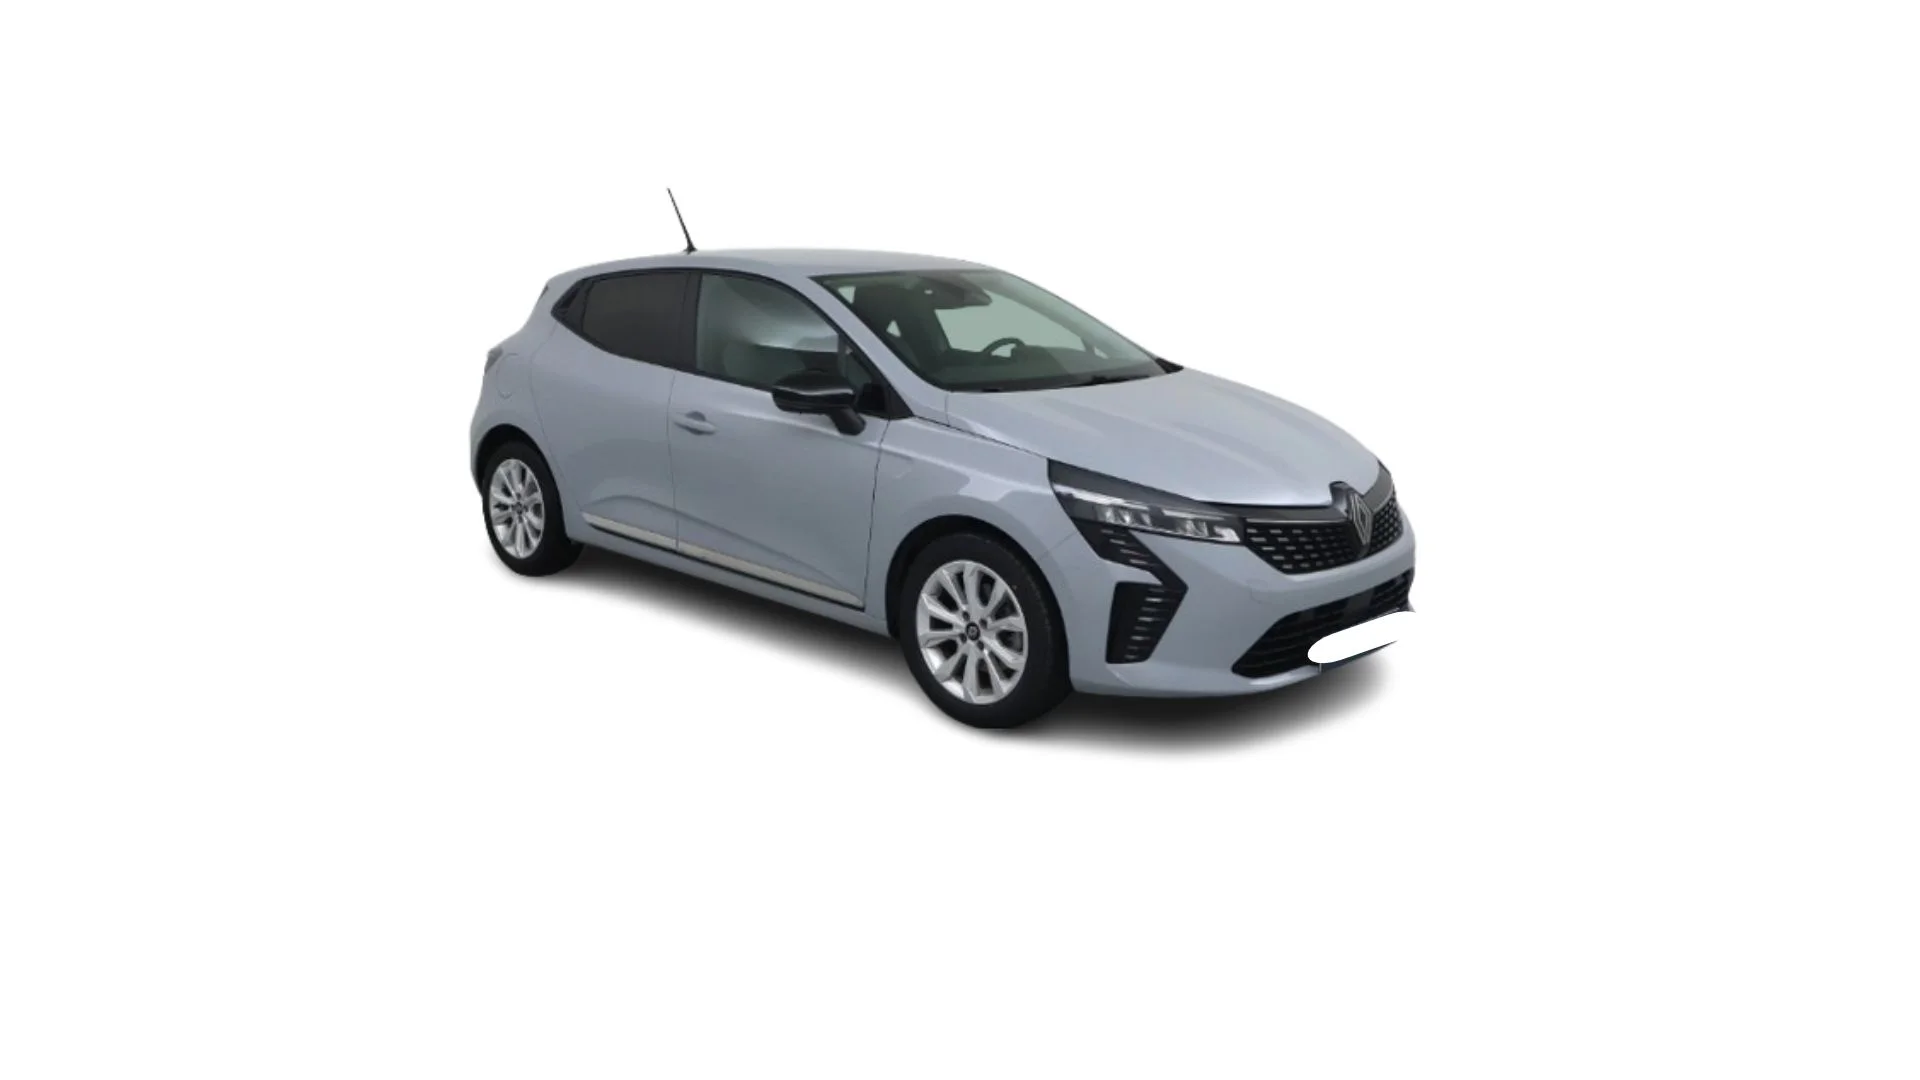
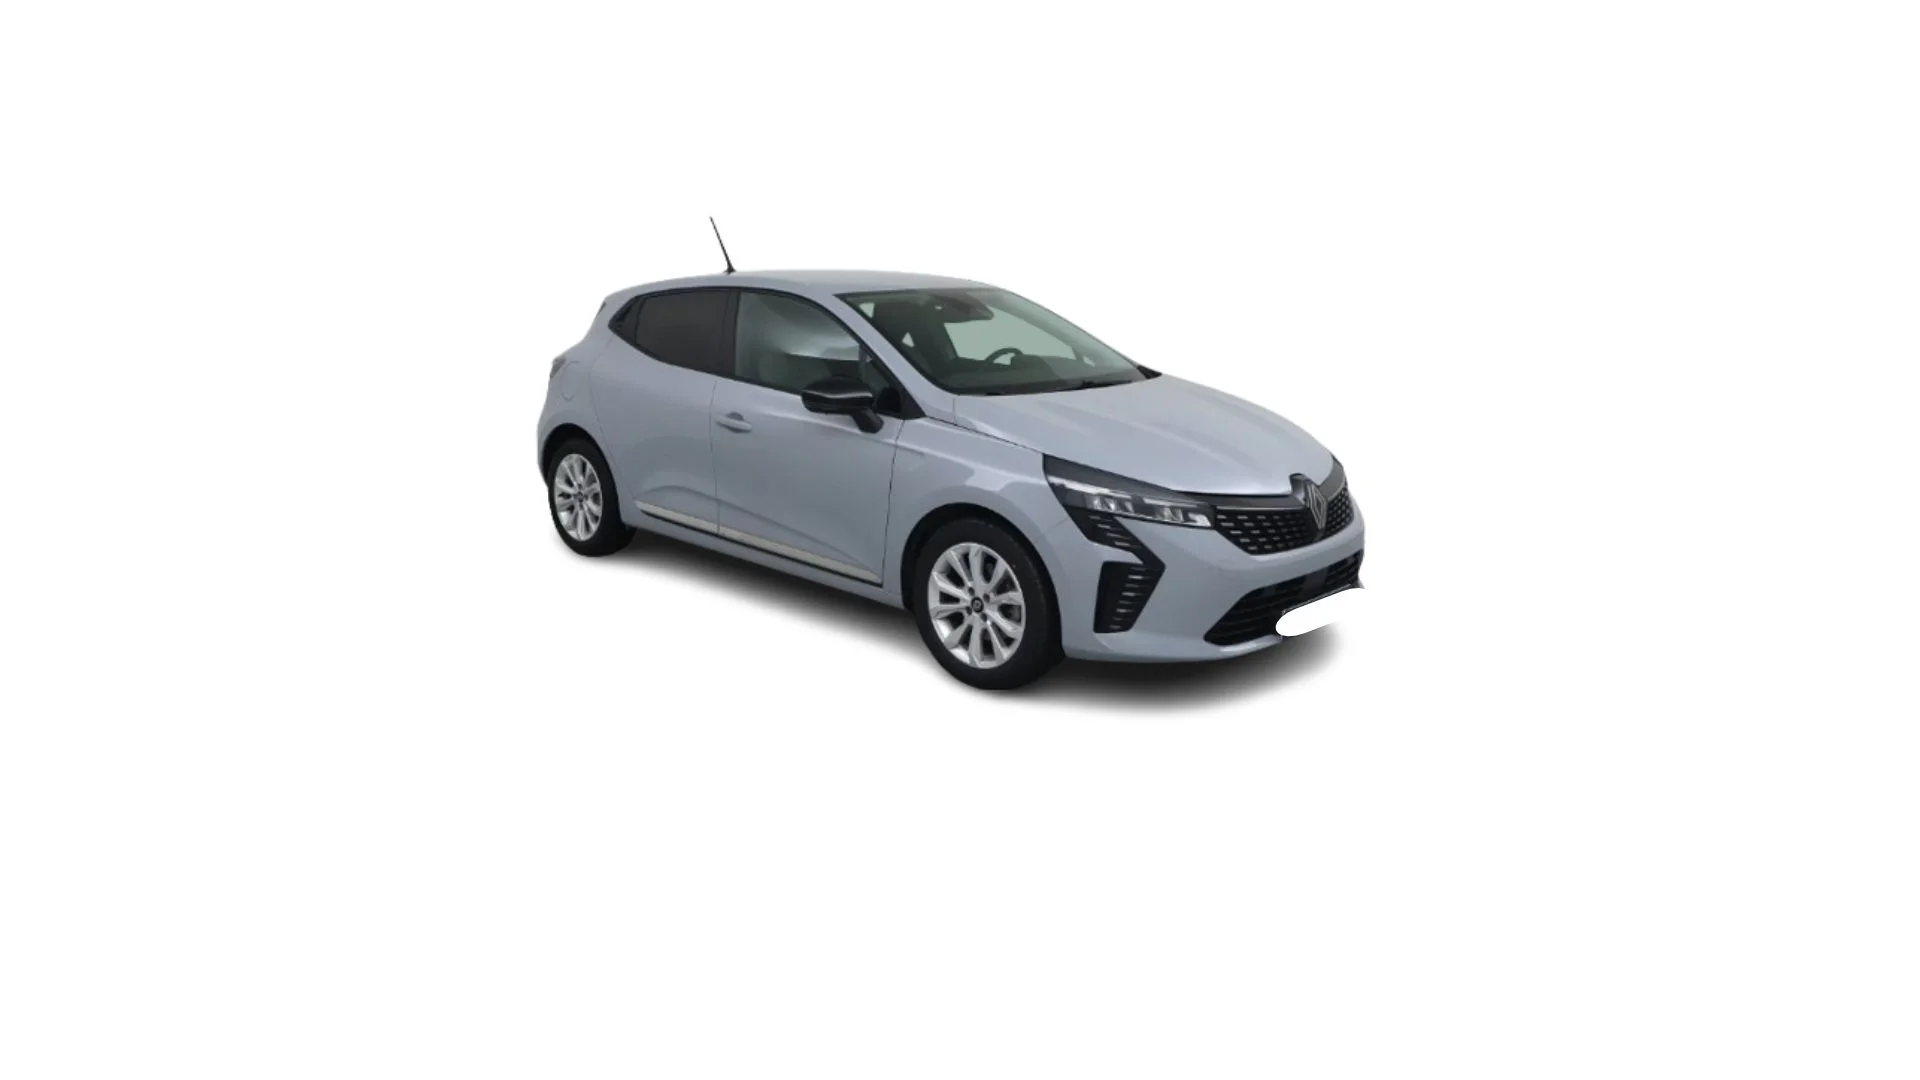
auto: convert images to webp [skip ci]

Changed region(s): [[0.2188, 0.1833, 0.75, 0.7028], [0.6562, 0.3667, 0.6875, 0.3972]]

diff --git a/_vehicules/export-2024-renault-clio-5-9.md b/_vehicules/export-2024-renault-clio-5-9.md
@@ -13,5 +13,5 @@ exterior_color: "GRIS NARDO "
 interior_color: NOIR
 price: "11500"
 disponibilite: stock
-image: images/clio-5-evolution.jpg
+image: images/clio-5-evolution.webp
 ---
